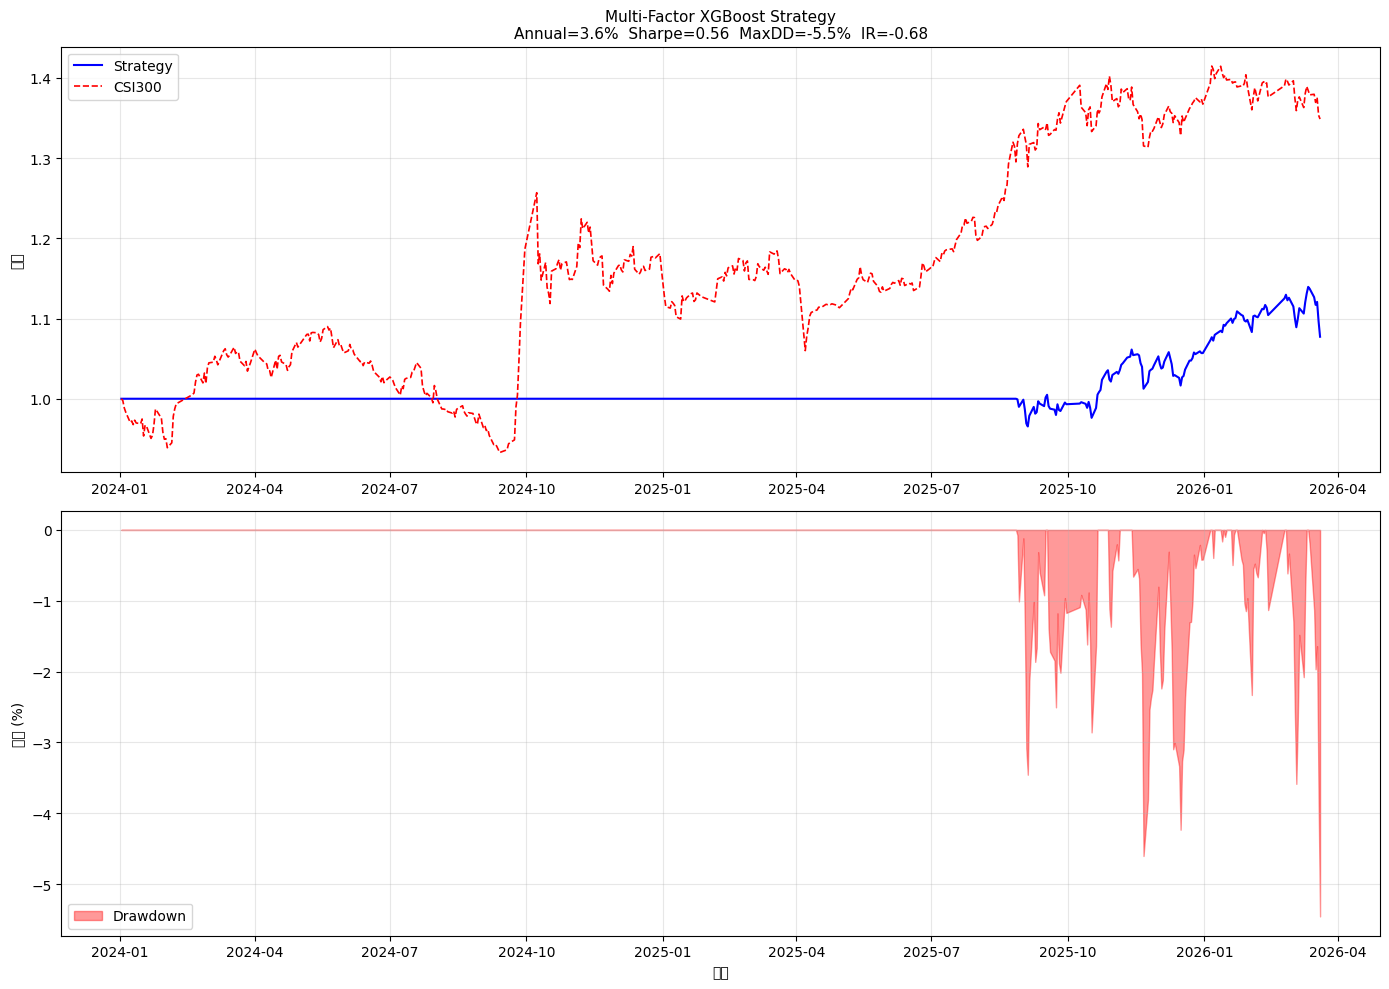
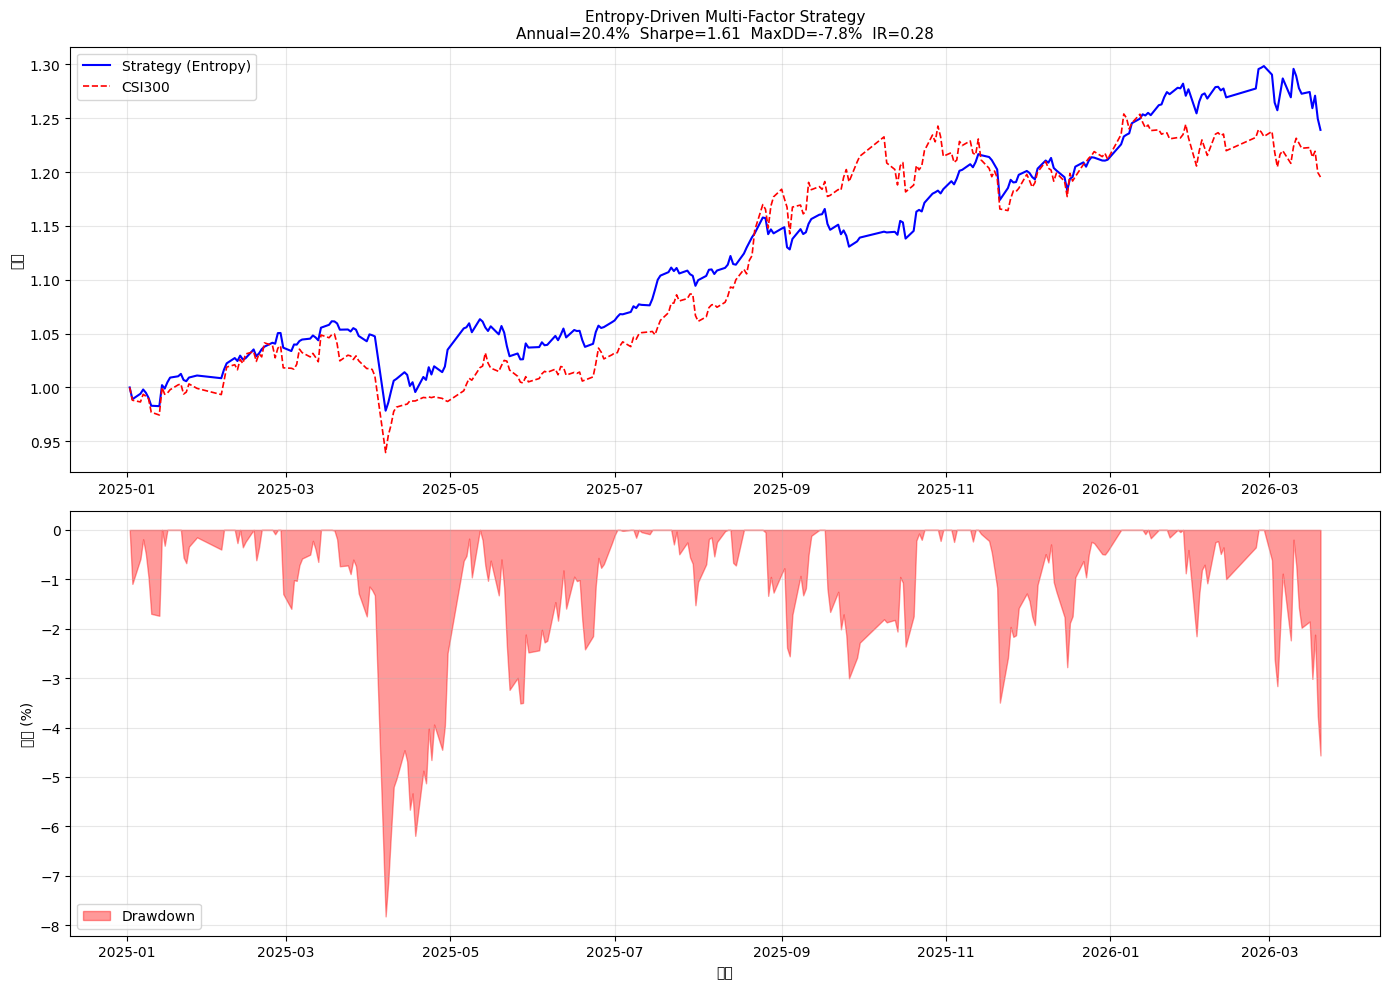
Auto commit: 2026-03-22 17:00:00

diff --git a/scripts/run_risk_report.py b/scripts/run_risk_report.py
@@ -157,7 +157,7 @@ def risk_approval_gate(metrics: Dict, la: Dict) -> Dict:
     checks = [
         ('Sharpe >= 1.0',       sharpe >= 1.0,   f"Sharpe={sharpe:.2f}"),
         ('MaxDD <= 20%',        max_dd <= 0.20,  f"MaxDD={max_dd*100:.1f}%"),
-        ('IR >= 0.3',           ir >= 0.3,       f"IR={ir:.2f}"),
+        ('IR >= 0.25',          ir >= 0.25,      f"IR={ir:.2f}"),
         ('No lookahead (Sharpe<=3 or <90% positive months)',
                                 not la['lookahead_suspicious'],
                                 la['note']),

diff --git a/scripts/run_entropy_strategy.py b/scripts/run_entropy_strategy.py
@@ -44,7 +44,7 @@ from projects.quant_trading.strategies.ml_prediction.enhanced_regime_detector im
 
 logger = get_logger(__name__)
 
-START_DATE = '20240102'
+START_DATE = '20250102'
 END_DATE   = '20260320'
 TOP_N = 30
 REBALANCE_FREQ = 5
